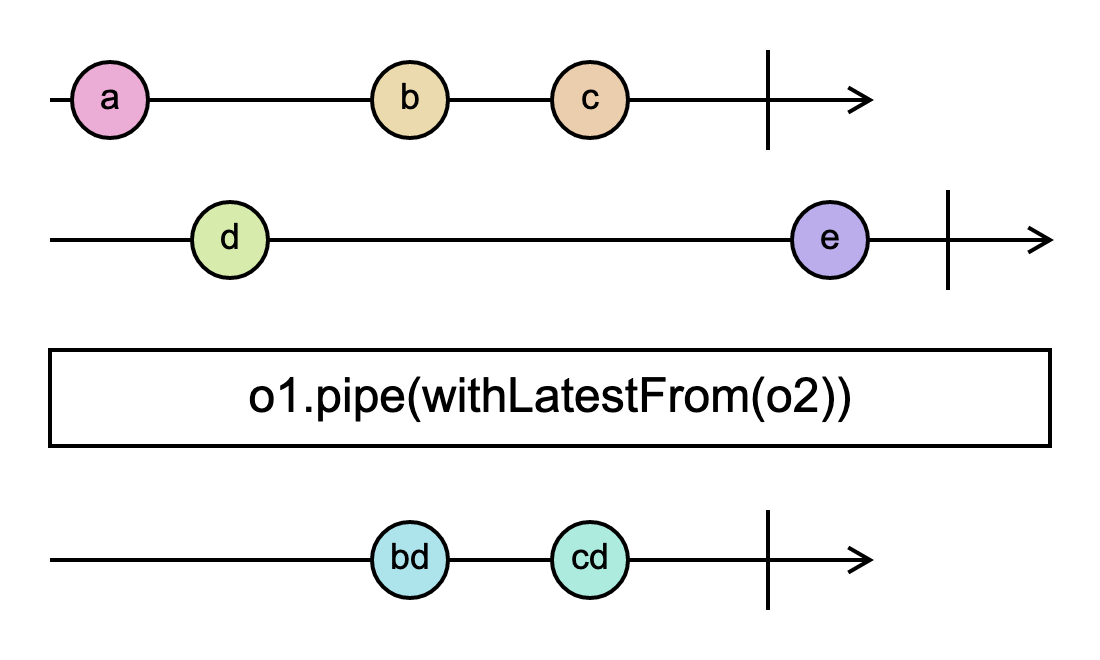
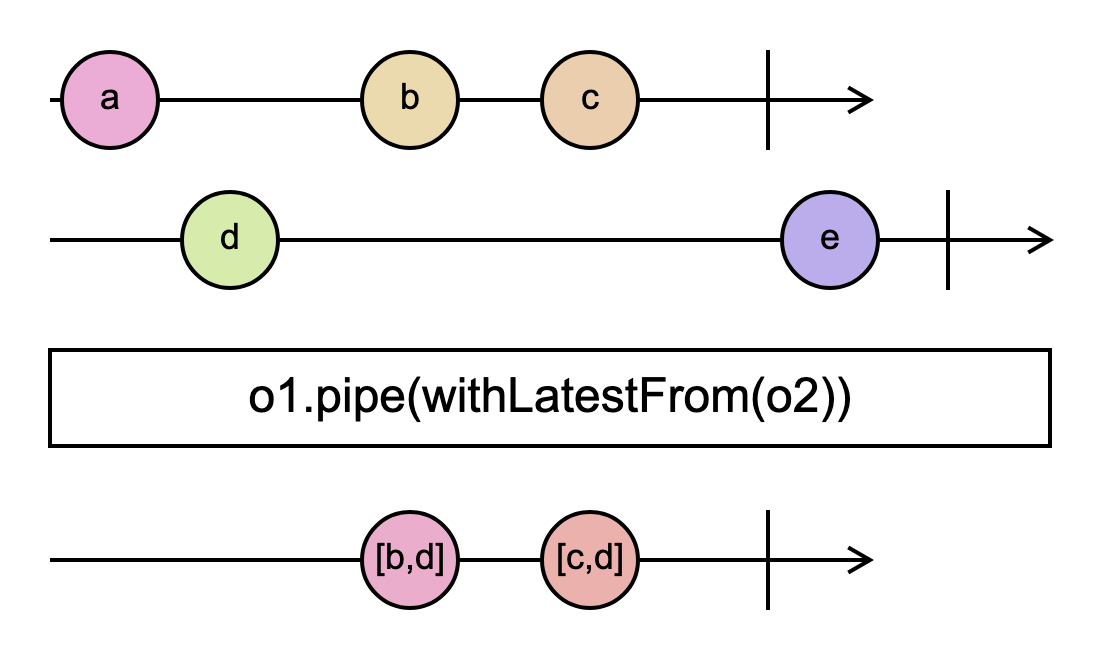
Making array outputs more clear in diagrams

diff --git a/README.md b/README.md
@@ -55,7 +55,14 @@ Subjects:
 	- [x] [`repeat`](./notes/repeat/)
 
 - Then:
-	- [ ] camelCase
+	- [x] camelCase
 	- [ ] use arrays
 	- [ ] output
 	- [ ] remove "Observable" from name
+
+Each thing will have its own README. It will contain:
+- Short docs description
+- My own description/notes
+- Diagram
+- Code snippet
+- Links
